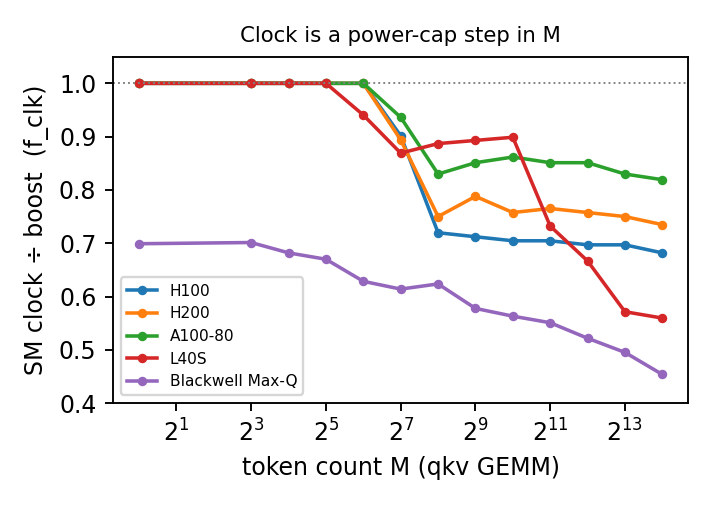
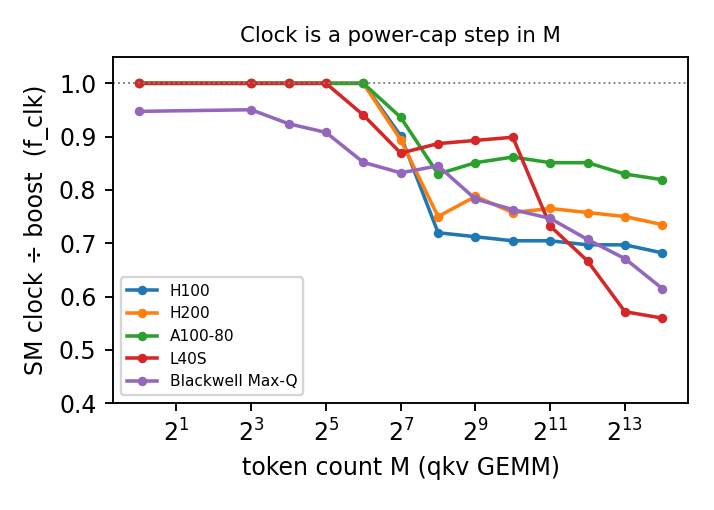
deepdive(clock-power): correct Blackwell boost 3090->2280 (Max-Q rated)
Sync with paper-freq cold-oracle fix: §4 over-prediction 2.2x->1.79x(L40S)/1.63x(Blackwell);
§3 table Blackwell row boost 2280, droop -38.5%; figures regenerated (clock normalized to
2280). Matches the corrected workshop paper.

diff --git a/ai-infra-basics/deepdive/clock-power/index.html b/ai-infra-basics/deepdive/clock-power/index.html
@@ -95,7 +95,7 @@ footer{text-align:center;padding:2.5rem 2rem;color:#8fa4c0;font-size:.82rem;bord
 <tr><td>H100 SXM</td><td>1980</td><td>0.697</td><td>161</td><td>3.94</td><td>0.999</td><td>−31.2%</td></tr>
 <tr><td>H200 SXM</td><td>1980</td><td>0.757</td><td>158</td><td>4.23</td><td>0.995</td><td>−25.8%</td></tr>
 <tr><td>A100-80 PCIe</td><td>1410</td><td>0.820</td><td>153</td><td>1.28</td><td>0.975</td><td>−19.7%</td></tr>
-<tr><td>RTX PRO 6000 (Max-Q)</td><td>3090</td><td>0.41</td><td>4</td><td>0.30</td><td>0.68</td><td>−55.1%</td></tr>
+<tr><td>RTX PRO 6000 (Max-Q)</td><td>2280</td><td>0.56</td><td>4</td><td>0.30</td><td>0.68</td><td>−38.5%</td></tr>
 </table>
 </section>
 
@@ -156,7 +156,7 @@ footer{text-align:center;padding:2.5rem 2rem;color:#8fa4c0;font-size:.82rem;bord
 <div class="cap"><strong>Figure 4b.</strong> <span class="i18n" data-en="Clock-independent efficiency η_noclk (solid) and tensor-pipe activity (dashed) vs M, clock pinned. η_noclk climbs as SM-fill, tile-tail, and duty saturate (tensor pipe → 99% active), then plateaus near 0.85 — this geometric rise is what carries throughput up after the clock has already stepped down." data-zh="把時脈釘住後，與時脈無關的效率 η_noclk(實線)與 tensor pipe 活躍度(虛線)對 M。η_noclk 隨 SM 填充、tile 尾段與 duty 飽和而上升(tensor pipe → 99% 滿載)，接著在約 0.85 處持平——正是這個幾何效率的上升，在時脈已階梯式下降之後把吞吐撐了上去。">Clock-independent efficiency η_noclk (solid) and tensor-pipe activity (dashed) vs M, clock pinned. η_noclk climbs as SM-fill, tile-tail, and duty saturate (tensor pipe → 99% active), then plateaus near 0.85 — this geometric rise is what carries throughput up after the clock has already stepped down.</span></div>
 </div>
 
-<p><span class="i18n" data-en="Now the cost to a model. For a fixed kernel shape, throughput is proportional to clock — the same tiling and instruction mix, just slower. So a datasheet-boost roofline (a GenZ- or LLMCompass-style model) over-predicts compute-bound throughput by 1/f_clk and under-predicts the GEMM time by (1 − f_clk). Over the compute-bound sizes that is a 1.22× over-prediction on A100-80, 1.36× on H200, 1.47× on H100, and 2.2× on the Max-Q Blackwell. In Figure 5 the dotted line is the boost-clock counterfactual (measured ÷ f_clk); the gap above the solid line is exactly the throughput the power cap removed." data-zh="再來是它對模型的代價。對固定的 kernel 形狀，吞吐與時脈成正比——一樣的 tiling 與指令組合，只是跑得慢一點。所以一個 datasheet-boost roofline(GenZ 或 LLMCompass 那類模型)會把運算受限的吞吐高估 1/f_clk 倍，並把 GEMM 時間低估 (1 − f_clk)。在運算受限的尺寸下，這個高估在 A100-80 是 1.22×、H200 是 1.36×、H100 是 1.47×、Max-Q Blackwell 則達 2.2×。圖 5 的虛線是 boost 時脈反事實(量測值 ÷ f_clk)；虛線高出實線的那段，正是功耗上限拿走的那截吞吐。">Now the cost to a model. For a fixed kernel shape, throughput is proportional to clock — the same tiling and instruction mix, just slower. So a datasheet-boost roofline (a GenZ- or LLMCompass-style model) over-predicts compute-bound throughput by 1/f_clk and under-predicts the GEMM time by (1 − f_clk). Over the compute-bound sizes that is a 1.22× over-prediction on A100-80, 1.36× on H200, 1.47× on H100, and 2.2× on the Max-Q Blackwell. In Figure 5 the dotted line is the boost-clock counterfactual (measured ÷ f_clk); the gap above the solid line is exactly the throughput the power cap removed.</span></p>
+<p><span class="i18n" data-en="Now the cost to a model. For a fixed kernel shape, throughput is proportional to clock — the same tiling and instruction mix, just slower. So a datasheet-boost roofline (a GenZ- or LLMCompass-style model) over-predicts compute-bound throughput by 1/f_clk and under-predicts the GEMM time by (1 − f_clk). Over the compute-bound sizes that is a 1.22× over-prediction on A100-80, 1.36× on H200, 1.47× on H100, 1.79× on L40S, and 1.63× on the Max-Q Blackwell. In Figure 5 the dotted line is the boost-clock counterfactual (measured ÷ f_clk); the gap above the solid line is exactly the throughput the power cap removed." data-zh="再來是它對模型的代價。對固定的 kernel 形狀，吞吐與時脈成正比——一樣的 tiling 與指令組合，只是跑得慢一點。所以一個 datasheet-boost roofline(GenZ 或 LLMCompass 那類模型)會把運算受限的吞吐高估 1/f_clk 倍，並把 GEMM 時間低估 (1 − f_clk)。在運算受限的尺寸下，這個高估在 A100-80 是 1.22×、H200 是 1.36×、H100 是 1.47×、L40S 1.79×、Max-Q Blackwell 1.63×。圖 5 的虛線是 boost 時脈反事實(量測值 ÷ f_clk)；虛線高出實線的那段，正是功耗上限拿走的那截吞吐。">Now the cost to a model. For a fixed kernel shape, throughput is proportional to clock — the same tiling and instruction mix, just slower. So a datasheet-boost roofline (a GenZ- or LLMCompass-style model) over-predicts compute-bound throughput by 1/f_clk and under-predicts the GEMM time by (1 − f_clk). Over the compute-bound sizes that is a 1.22× over-prediction on A100-80, 1.36× on H200, 1.47× on H100, 1.79× on L40S, and 1.63× on the Max-Q Blackwell. In Figure 5 the dotted line is the boost-clock counterfactual (measured ÷ f_clk); the gap above the solid line is exactly the throughput the power cap removed.</span></p>
 
 <p><span class="i18n" data-en="The hidden term becomes directly visible on power-constrained cards. Once η_noclk saturates there is no geometric headroom left to mask the clock, so if the cap keeps the clock drooping, achieved throughput goes down. At a fixed cap, L40S sheds 15% of its peak TFLOP/s by the largest size we test (231 → 195) and the Max-Q Blackwell 3% (258 → 250), while the well-provisioned H100 and A100 simply plateau. This is a compute-bound regime — arithmetic intensity far above the ridge — so the decline is the clock, not memory bandwidth." data-zh="在電力受限的卡上，這個隱藏項會直接現形。一旦 η_noclk 飽和，就沒有幾何餘裕能再遮住時脈了；於是只要功耗上限讓時脈繼續下垂，achieved 吞吐就會往下掉。在固定功耗上限下，L40S 到我們測的最大尺寸時掉了峰值的 15%(231 → 195)、Max-Q Blackwell 掉 3%(258 → 250)，而電力充裕的 H100 與 A100 則只是持平。這是運算受限的區段——arithmetic intensity 遠高於 ridge——所以這個下降來自時脈，不是記憶體頻寬。">The hidden term becomes directly visible on power-constrained cards. Once η_noclk saturates there is no geometric headroom left to mask the clock, so if the cap keeps the clock drooping, achieved throughput goes down. At a fixed cap, L40S sheds 15% of its peak TFLOP/s by the largest size we test (231 → 195) and the Max-Q Blackwell 3% (258 → 250), while the well-provisioned H100 and A100 simply plateau. This is a compute-bound regime — arithmetic intensity far above the ridge — so the decline is the clock, not memory bandwidth.</span></p>
 
@@ -164,7 +164,7 @@ footer{text-align:center;padding:2.5rem 2rem;color:#8fa4c0;font-size:.82rem;bord
 
 <div class="paper-fig">
 <img src="figures/figE_tflops.png" alt="Figure 5: achieved TFLOP/s vs M with boost-clock counterfactual">
-<div class="cap"><strong>Figure 5.</strong> <span class="i18n" data-en="Achieved compute rate vs M (solid). On the datacenter cards it rises and plateaus; on the power-constrained L40S and Max-Q Blackwell it declines at large M as the clock keeps drooping. The dotted curve is the boost-clock counterfactual (measured ÷ f_clk); the gap to the solid line is the throughput the cap removed (up to 2.2× on Max-Q)." data-zh="achieved 運算速率對 M(實線)。在資料中心卡上它上升後持平；在電力受限的 L40S 與 Max-Q Blackwell 上，隨著時脈持續下垂，它在大 M 處下降。虛線是 boost 時脈反事實(量測值 ÷ f_clk)；它與實線的距離就是功耗上限拿走的吞吐(Max-Q 上達 2.2×)。">Achieved compute rate vs M (solid). On the datacenter cards it rises and plateaus; on the power-constrained L40S and Max-Q Blackwell it declines at large M as the clock keeps drooping. The dotted curve is the boost-clock counterfactual (measured ÷ f_clk); the gap to the solid line is the throughput the cap removed (up to 2.2× on Max-Q).</span></div>
+<div class="cap"><strong>Figure 5.</strong> <span class="i18n" data-en="Achieved compute rate vs M (solid). On the datacenter cards it rises and plateaus; on the power-constrained L40S and Max-Q Blackwell it declines at large M as the clock keeps drooping. The dotted curve is the boost-clock counterfactual (measured ÷ f_clk); the gap to the solid line is the throughput the cap removed (up to 1.79× on L40S)." data-zh="achieved 運算速率對 M(實線)。在資料中心卡上它上升後持平；在電力受限的 L40S 與 Max-Q Blackwell 上，隨著時脈持續下垂，它在大 M 處下降。虛線是 boost 時脈反事實(量測值 ÷ f_clk)；它與實線的距離就是功耗上限拿走的吞吐(L40S 上達 1.79×)。">Achieved compute rate vs M (solid). On the datacenter cards it rises and plateaus; on the power-constrained L40S and Max-Q Blackwell it declines at large M as the clock keeps drooping. The dotted curve is the boost-clock counterfactual (measured ÷ f_clk); the gap to the solid line is the throughput the cap removed (up to 1.79× on L40S).</span></div>
 </div>
 
 <table>
@@ -173,7 +173,7 @@ footer{text-align:center;padding:2.5rem 2rem;color:#8fa4c0;font-size:.82rem;bord
 <tr><td>H200 SXM</td><td>512</td><td>1.36× (27%)</td><td>−0.6%</td></tr>
 <tr><td>A100-80</td><td>2048</td><td>1.22× (18%)</td><td><span class="i18n" data-en="plateau" data-zh="持平">plateau</span></td></tr>
 <tr><td>L40S</td><td>512</td><td><strong>1.79× (44%)</strong></td><td><strong>−15%</strong></td></tr>
-<tr><td>RTX PRO 6000 (Max-Q)</td><td>1024</td><td><strong>2.20× (55%)</strong></td><td><strong>−3%</strong></td></tr>
+<tr><td>RTX PRO 6000 (Max-Q)</td><td>1024</td><td><strong>1.63× (38%)</strong></td><td><strong>−3%</strong></td></tr>
 </table>
 </section>
 
